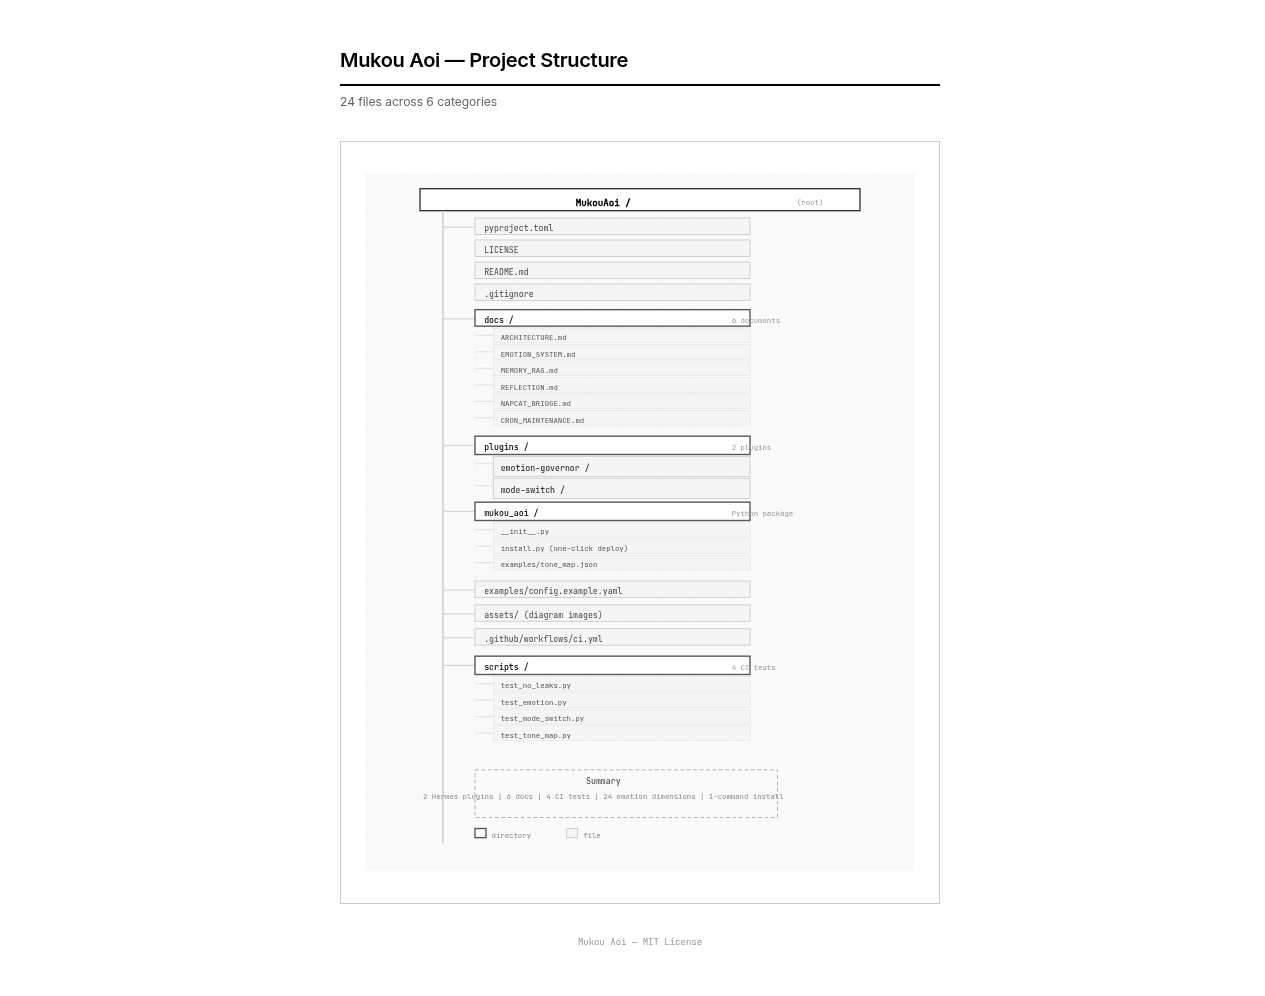
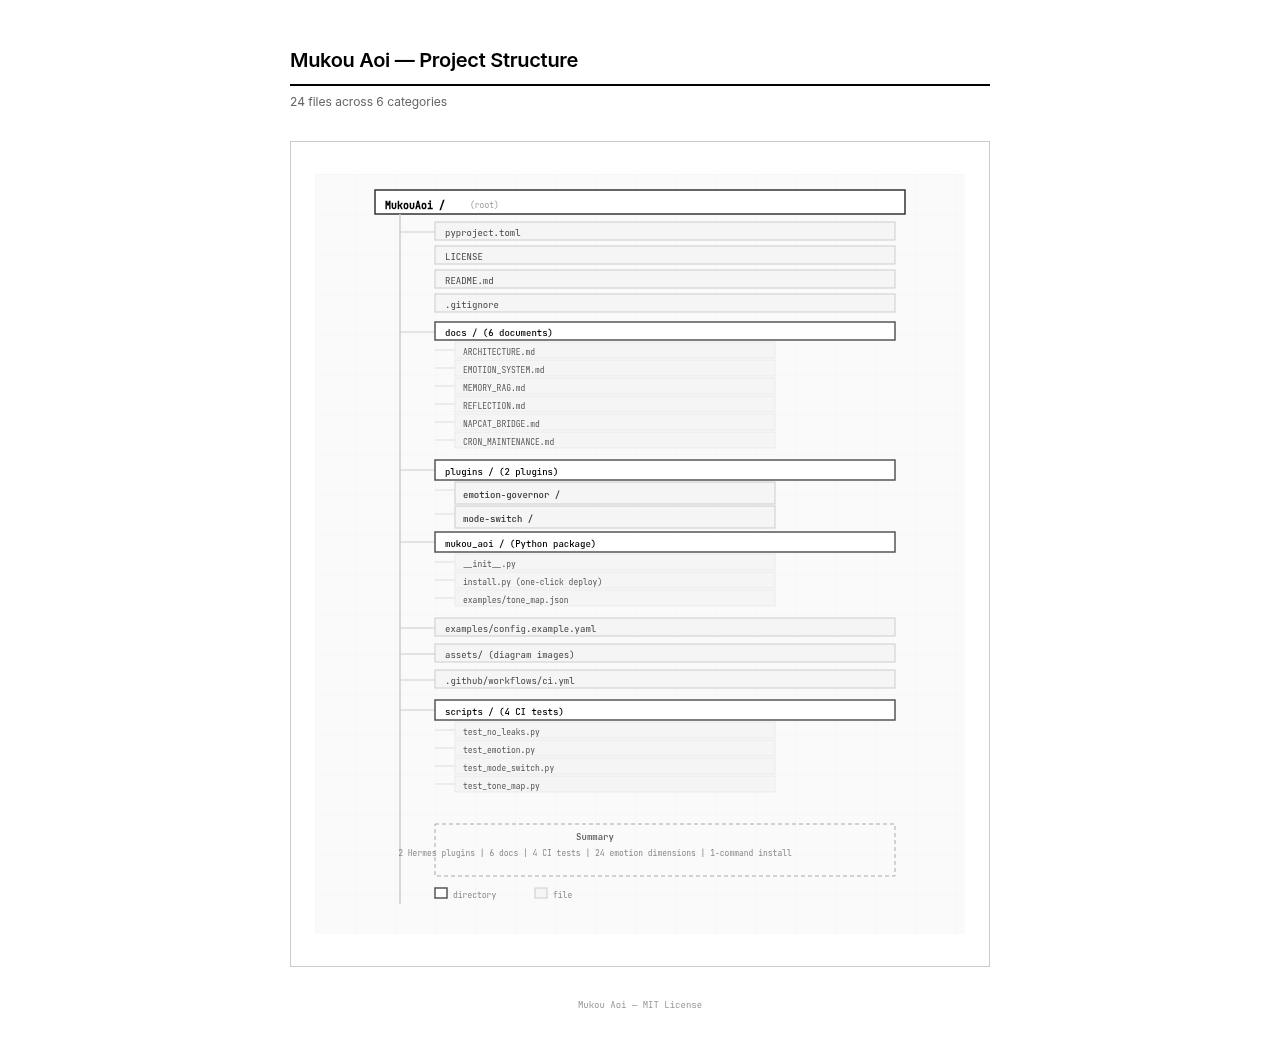
fix: widen structure diagram boxes, inline labels to prevent overflow

diff --git a/assets/structure-bw.html b/assets/structure-bw.html
@@ -11,7 +11,7 @@
     padding: 48px;
     font-family: 'Inter', sans-serif;
   }
-  .page { max-width: 600px; margin: 0 auto; }
+  .page { max-width: 700px; margin: 0 auto; }
   h1 {
     font-size: 20px; font-weight: 600; color: #000;
     letter-spacing: -0.3px;
@@ -28,7 +28,7 @@
     padding: 32px 24px;
     margin-bottom: 32px;
   }
-  svg { display: block; margin: 0 auto; width: 100%; max-width: 550px; }
+  svg { display: block; margin: 0 auto; width: 100%; }
   .footer {
     text-align: center;
     font-family: 'JetBrains Mono', monospace;
@@ -43,126 +43,120 @@
   <div class="subtitle">24 files across 6 categories</div>
 
   <div class="diagram-box">
-    <svg viewBox="0 0 600 760" xmlns="http://www.w3.org/2000/svg" font-family="'JetBrains Mono', monospace">
+    <svg viewBox="0 0 650 760" xmlns="http://www.w3.org/2000/svg" font-family="'JetBrains Mono', monospace">
+      <rect width="650" height="760" fill="#fafafa"/>
+      <rect width="650" height="760" fill="url(#grid)" stroke="none"/>
       <defs>
         <pattern id="grid" width="40" height="40" patternUnits="userSpaceOnUse">
           <path d="M 40 0 L 0 0 0 40" fill="none" stroke="#f0f0f0" stroke-width="0.5"/>
         </pattern>
       </defs>
-      <rect width="600" height="760" fill="#fafafa"/>
-      <rect width="600" height="760" fill="url(#grid)"/>
 
       <!-- Root -->
-      <rect x="60" y="16" width="480" height="24" rx="0" fill="#fff" stroke="#333" stroke-width="1.5"/>
-      <text x="260" y="32" font-size="10" font-weight="600" fill="#000" text-anchor="middle" dominant-baseline="middle">MukouAoi /</text>
-      <text x="500" y="32" font-size="8" fill="#999" text-anchor="end" dominant-baseline="middle">(root)</text>
+      <rect x="60" y="16" width="530" height="24" rx="0" fill="#fff" stroke="#333" stroke-width="1.5"/>
+      <text x="70" y="32" font-size="10" font-weight="600" fill="#000" dominant-baseline="middle">MukouAoi /</text>
+      <text x="155" y="32" font-size="8" fill="#999" dominant-baseline="middle">(root)</text>
 
       <!-- Vertical trunk -->
       <line x1="85" y1="40" x2="85" y2="730" stroke="#ccc" stroke-width="1.5"/>
 
       <!-- Branch 1: Config files -->
       <line x1="85" y1="58" x2="120" y2="58" stroke="#ccc" stroke-width="1"/>
-      <rect x="120" y="48" width="300" height="18" rx="0" fill="#f5f5f5" stroke="#ccc" stroke-width="1"/>
+      <rect x="120" y="48" width="460" height="18" rx="0" fill="#f5f5f5" stroke="#ccc" stroke-width="1"/>
       <text x="130" y="60" font-size="9" fill="#444" dominant-baseline="middle">pyproject.toml</text>
-      <rect x="120" y="72" width="300" height="18" rx="0" fill="#f5f5f5" stroke="#ccc" stroke-width="1"/>
+      <rect x="120" y="72" width="460" height="18" rx="0" fill="#f5f5f5" stroke="#ccc" stroke-width="1"/>
       <text x="130" y="84" font-size="9" fill="#444" dominant-baseline="middle">LICENSE</text>
-      <rect x="120" y="96" width="300" height="18" rx="0" fill="#f5f5f5" stroke="#ccc" stroke-width="1"/>
+      <rect x="120" y="96" width="460" height="18" rx="0" fill="#f5f5f5" stroke="#ccc" stroke-width="1"/>
       <text x="130" y="108" font-size="9" fill="#444" dominant-baseline="middle">README.md</text>
-      <rect x="120" y="120" width="300" height="18" rx="0" fill="#f5f5f5" stroke="#ccc" stroke-width="1"/>
+      <rect x="120" y="120" width="460" height="18" rx="0" fill="#f5f5f5" stroke="#ccc" stroke-width="1"/>
       <text x="130" y="132" font-size="9" fill="#444" dominant-baseline="middle">.gitignore</text>
 
       <!-- Branch 2: docs/ -->
       <line x1="85" y1="158" x2="120" y2="158" stroke="#ccc" stroke-width="1"/>
-      <rect x="120" y="148" width="300" height="18" rx="0" fill="#fff" stroke="#555" stroke-width="1.5"/>
-      <text x="130" y="160" font-size="9" font-weight="500" fill="#000" dominant-baseline="middle">docs /</text>
-      <text x="400" y="160" font-size="8" fill="#999" text-anchor="start" dominant-baseline="middle">6 documents</text>
+      <rect x="120" y="148" width="460" height="18" rx="0" fill="#fff" stroke="#555" stroke-width="1.5"/>
+      <text x="130" y="160" font-size="9" font-weight="500" fill="#000" dominant-baseline="middle">docs / (6 documents)</text>
 
       <line x1="120" y1="176" x2="140" y2="176" stroke="#ddd" stroke-width="1"/>
-      <rect x="140" y="168" width="280" height="16" rx="0" fill="#f5f5f5" stroke="#ddd" stroke-width="0.5"/>
+      <rect x="140" y="168" width="320" height="16" rx="0" fill="#f5f5f5" stroke="#ddd" stroke-width="0.5"/>
       <text x="148" y="179" font-size="8" fill="#555" dominant-baseline="middle">ARCHITECTURE.md</text>
       <line x1="120" y1="194" x2="140" y2="194" stroke="#ddd" stroke-width="1"/>
-      <rect x="140" y="186" width="280" height="16" rx="0" fill="#f5f5f5" stroke="#ddd" stroke-width="0.5"/>
+      <rect x="140" y="186" width="320" height="16" rx="0" fill="#f5f5f5" stroke="#ddd" stroke-width="0.5"/>
       <text x="148" y="197" font-size="8" fill="#555" dominant-baseline="middle">EMOTION_SYSTEM.md</text>
       <line x1="120" y1="212" x2="140" y2="212" stroke="#ddd" stroke-width="1"/>
-      <rect x="140" y="204" width="280" height="16" rx="0" fill="#f5f5f5" stroke="#ddd" stroke-width="0.5"/>
+      <rect x="140" y="204" width="320" height="16" rx="0" fill="#f5f5f5" stroke="#ddd" stroke-width="0.5"/>
       <text x="148" y="215" font-size="8" fill="#555" dominant-baseline="middle">MEMORY_RAG.md</text>
       <line x1="120" y1="230" x2="140" y2="230" stroke="#ddd" stroke-width="1"/>
-      <rect x="140" y="222" width="280" height="16" rx="0" fill="#f5f5f5" stroke="#ddd" stroke-width="0.5"/>
+      <rect x="140" y="222" width="320" height="16" rx="0" fill="#f5f5f5" stroke="#ddd" stroke-width="0.5"/>
       <text x="148" y="233" font-size="8" fill="#555" dominant-baseline="middle">REFLECTION.md</text>
       <line x1="120" y1="248" x2="140" y2="248" stroke="#ddd" stroke-width="1"/>
-      <rect x="140" y="240" width="280" height="16" rx="0" fill="#f5f5f5" stroke="#ddd" stroke-width="0.5"/>
+      <rect x="140" y="240" width="320" height="16" rx="0" fill="#f5f5f5" stroke="#ddd" stroke-width="0.5"/>
       <text x="148" y="251" font-size="8" fill="#555" dominant-baseline="middle">NAPCAT_BRIDGE.md</text>
       <line x1="120" y1="266" x2="140" y2="266" stroke="#ddd" stroke-width="1"/>
-      <rect x="140" y="258" width="280" height="16" rx="0" fill="#f5f5f5" stroke="#ddd" stroke-width="0.5"/>
+      <rect x="140" y="258" width="320" height="16" rx="0" fill="#f5f5f5" stroke="#ddd" stroke-width="0.5"/>
       <text x="148" y="269" font-size="8" fill="#555" dominant-baseline="middle">CRON_MAINTENANCE.md</text>
 
       <!-- Branch 3: plugins/ -->
       <line x1="85" y1="296" x2="120" y2="296" stroke="#ccc" stroke-width="1"/>
-      <rect x="120" y="286" width="300" height="20" rx="0" fill="#fff" stroke="#555" stroke-width="1.5"/>
-      <text x="130" y="299" font-size="9" font-weight="500" fill="#000" dominant-baseline="middle">plugins /</text>
-      <text x="400" y="299" font-size="8" fill="#999" text-anchor="start" dominant-baseline="middle">2 plugins</text>
+      <rect x="120" y="286" width="460" height="20" rx="0" fill="#fff" stroke="#555" stroke-width="1.5"/>
+      <text x="130" y="299" font-size="9" font-weight="500" fill="#000" dominant-baseline="middle">plugins / (2 plugins)</text>
 
       <line x1="120" y1="316" x2="140" y2="316" stroke="#ddd" stroke-width="1"/>
-      <rect x="140" y="308" width="280" height="22" rx="0" fill="#f5f5f5" stroke="#ccc" stroke-width="1"/>
+      <rect x="140" y="308" width="320" height="22" rx="0" fill="#f5f5f5" stroke="#ccc" stroke-width="1"/>
       <text x="148" y="322" font-size="9" font-weight="500" fill="#333" dominant-baseline="middle">emotion-governor /</text>
       <text x="148" y="324" font-size="7" fill="#888" dominant-baseline="middle" dy="14">	__init__.py, plugin.yaml</text>
       <line x1="120" y1="340" x2="140" y2="340" stroke="#ddd" stroke-width="1"/>
-      <rect x="140" y="332" width="280" height="22" rx="0" fill="#f5f5f5" stroke="#ccc" stroke-width="1"/>
+      <rect x="140" y="332" width="320" height="22" rx="0" fill="#f5f5f5" stroke="#ccc" stroke-width="1"/>
       <text x="148" y="346" font-size="9" font-weight="500" fill="#333" dominant-baseline="middle">mode-switch /</text>
       <text x="148" y="348" font-size="7" fill="#888" dominant-baseline="middle" dy="14">	__init__.py, plugin.yaml, mode.txt</text>
 
       <!-- Branch 4: mukou_aoi/ -->
       <line x1="85" y1="368" x2="120" y2="368" stroke="#ccc" stroke-width="1"/>
-      <rect x="120" y="358" width="300" height="20" rx="0" fill="#fff" stroke="#555" stroke-width="1.5"/>
-      <text x="130" y="371" font-size="9" font-weight="500" fill="#000" dominant-baseline="middle">mukou_aoi /</text>
-      <text x="400" y="371" font-size="8" fill="#999" text-anchor="start" dominant-baseline="middle">Python package</text>
+      <rect x="120" y="358" width="460" height="20" rx="0" fill="#fff" stroke="#555" stroke-width="1.5"/>
+      <text x="130" y="371" font-size="9" font-weight="500" fill="#000" dominant-baseline="middle">mukou_aoi / (Python package)</text>
 
       <line x1="120" y1="388" x2="140" y2="388" stroke="#ddd" stroke-width="1"/>
-      <rect x="140" y="380" width="280" height="16" rx="0" fill="#f5f5f5" stroke="#ddd" stroke-width="0.5"/>
+      <rect x="140" y="380" width="320" height="16" rx="0" fill="#f5f5f5" stroke="#ddd" stroke-width="0.5"/>
       <text x="148" y="391" font-size="8" fill="#555" dominant-baseline="middle">__init__.py</text>
       <line x1="120" y1="406" x2="140" y2="406" stroke="#ddd" stroke-width="1"/>
-      <rect x="140" y="398" width="280" height="16" rx="0" fill="#f5f5f5" stroke="#ddd" stroke-width="0.5"/>
+      <rect x="140" y="398" width="320" height="16" rx="0" fill="#f5f5f5" stroke="#ddd" stroke-width="0.5"/>
       <text x="148" y="409" font-size="8" fill="#555" dominant-baseline="middle">install.py (one-click deploy)</text>
       <line x1="120" y1="424" x2="140" y2="424" stroke="#ddd" stroke-width="1"/>
-      <rect x="140" y="416" width="280" height="16" rx="0" fill="#f5f5f5" stroke="#ddd" stroke-width="0.5"/>
+      <rect x="140" y="416" width="320" height="16" rx="0" fill="#f5f5f5" stroke="#ddd" stroke-width="0.5"/>
       <text x="148" y="427" font-size="8" fill="#555" dominant-baseline="middle">examples/tone_map.json</text>
 
       <!-- Branch 5: miscellaneous -->
       <line x1="85" y1="454" x2="120" y2="454" stroke="#ccc" stroke-width="1"/>
-      <rect x="120" y="444" width="300" height="18" rx="0" fill="#f5f5f5" stroke="#ccc" stroke-width="1"/>
+      <rect x="120" y="444" width="460" height="18" rx="0" fill="#f5f5f5" stroke="#ccc" stroke-width="1"/>
       <text x="130" y="456" font-size="9" fill="#444" dominant-baseline="middle">examples/config.example.yaml</text>
-
       <line x1="85" y1="480" x2="120" y2="480" stroke="#ccc" stroke-width="1"/>
-      <rect x="120" y="470" width="300" height="18" rx="0" fill="#f5f5f5" stroke="#ccc" stroke-width="1"/>
+      <rect x="120" y="470" width="460" height="18" rx="0" fill="#f5f5f5" stroke="#ccc" stroke-width="1"/>
       <text x="130" y="482" font-size="9" fill="#444" dominant-baseline="middle">assets/ (diagram images)</text>
-
       <line x1="85" y1="506" x2="120" y2="506" stroke="#ccc" stroke-width="1"/>
-      <rect x="120" y="496" width="300" height="18" rx="0" fill="#f5f5f5" stroke="#ccc" stroke-width="1"/>
+      <rect x="120" y="496" width="460" height="18" rx="0" fill="#f5f5f5" stroke="#ccc" stroke-width="1"/>
       <text x="130" y="508" font-size="9" fill="#444" dominant-baseline="middle">.github/workflows/ci.yml</text>
 
       <!-- Branch 6: scripts/ -->
       <line x1="85" y1="536" x2="120" y2="536" stroke="#ccc" stroke-width="1"/>
-      <rect x="120" y="526" width="300" height="20" rx="0" fill="#fff" stroke="#555" stroke-width="1.5"/>
-      <text x="130" y="539" font-size="9" font-weight="500" fill="#000" dominant-baseline="middle">scripts /</text>
-      <text x="400" y="539" font-size="8" fill="#999" text-anchor="start" dominant-baseline="middle">4 CI tests</text>
+      <rect x="120" y="526" width="460" height="20" rx="0" fill="#fff" stroke="#555" stroke-width="1.5"/>
+      <text x="130" y="539" font-size="9" font-weight="500" fill="#000" dominant-baseline="middle">scripts / (4 CI tests)</text>
 
       <line x1="120" y1="556" x2="140" y2="556" stroke="#ddd" stroke-width="1"/>
-      <rect x="140" y="548" width="280" height="16" rx="0" fill="#f5f5f5" stroke="#ddd" stroke-width="0.5"/>
+      <rect x="140" y="548" width="320" height="16" rx="0" fill="#f5f5f5" stroke="#ddd" stroke-width="0.5"/>
       <text x="148" y="559" font-size="8" fill="#555" dominant-baseline="middle">test_no_leaks.py</text>
       <line x1="120" y1="574" x2="140" y2="574" stroke="#ddd" stroke-width="1"/>
-      <rect x="140" y="566" width="280" height="16" rx="0" fill="#f5f5f5" stroke="#ddd" stroke-width="0.5"/>
+      <rect x="140" y="566" width="320" height="16" rx="0" fill="#f5f5f5" stroke="#ddd" stroke-width="0.5"/>
       <text x="148" y="577" font-size="8" fill="#555" dominant-baseline="middle">test_emotion.py</text>
       <line x1="120" y1="592" x2="140" y2="592" stroke="#ddd" stroke-width="1"/>
-      <rect x="140" y="584" width="280" height="16" rx="0" fill="#f5f5f5" stroke="#ddd" stroke-width="0.5"/>
+      <rect x="140" y="584" width="320" height="16" rx="0" fill="#f5f5f5" stroke="#ddd" stroke-width="0.5"/>
       <text x="148" y="595" font-size="8" fill="#555" dominant-baseline="middle">test_mode_switch.py</text>
       <line x1="120" y1="610" x2="140" y2="610" stroke="#ddd" stroke-width="1"/>
-      <rect x="140" y="602" width="280" height="16" rx="0" fill="#f5f5f5" stroke="#ddd" stroke-width="0.5"/>
+      <rect x="140" y="602" width="320" height="16" rx="0" fill="#f5f5f5" stroke="#ddd" stroke-width="0.5"/>
       <text x="148" y="613" font-size="8" fill="#555" dominant-baseline="middle">test_tone_map.py</text>
 
       <!-- Summary box -->
-      <rect x="120" y="650" width="330" height="52" rx="0" fill="none" stroke="#aaa" stroke-width="1" stroke-dasharray="4,3"/>
-      <text x="260" y="666" font-size="9" font-weight="500" fill="#555" text-anchor="middle">Summary</text>
-      <text x="260" y="682" font-size="8" fill="#888" text-anchor="middle">2 Hermes plugins | 6 docs | 4 CI tests | 24 emotion dimensions | 1-command install</text>
+      <rect x="120" y="650" width="460" height="52" rx="0" fill="none" stroke="#aaa" stroke-width="1" stroke-dasharray="4,3"/>
+      <text x="280" y="666" font-size="9" font-weight="500" fill="#555" text-anchor="middle">Summary</text>
+      <text x="280" y="682" font-size="8" fill="#888" text-anchor="middle">2 Hermes plugins | 6 docs | 4 CI tests | 24 emotion dimensions | 1-command install</text>
 
       <!-- Legend -->
       <rect x="120" y="714" width="12" height="10" rx="0" fill="#fff" stroke="#555" stroke-width="1.5"/>

diff --git a/README.md b/README.md
@@ -120,7 +120,7 @@ USER_PRONOUNS = ["User", "user"]
 
 ## Project Structure
 
-<img src="assets/structure-bw.png" alt="Mukou Aoi Project Structure" width="80%"/>
+![Mukou Aoi Project Structure](assets/structure-bw.png)
 
 ---
 
